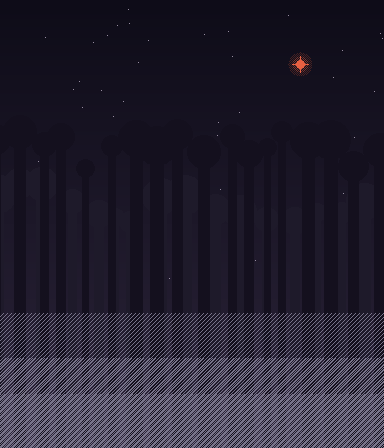
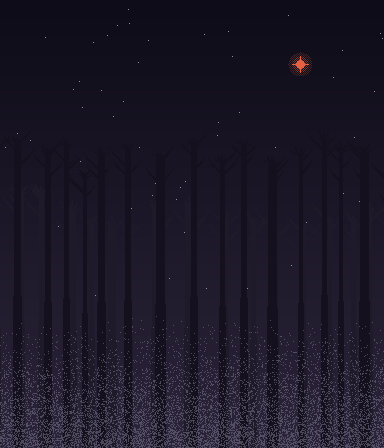
art: give the forest depth, and stop stamping the same tile down the floor
The mist was a diagonal hatch of literal (x + y) % n lines, which read as a
screen door laid over the lower third of the screen. It is now a fog that
thickens toward the ground, thresholded against deterministic hash noise
rather than an ordered matrix so no grid survives, and blended into what is
already there instead of overwriting it.

The background is two layers now: far trees at a quarter of the camera and
near trees at half, both drawn as bare trunks with branches instead of
rectangles with a ball on top. The scene draws both, which is the only Lua
this milestone touches.

The floor picks between three mud tops and two rock tops by a hash of the
tile coordinate, so the same stamp no longer repeats every sixteen pixels,
and rock ledges get their own left and right ends rather than showing a
sliced face. Map trees became bare canopies to match the background, and
the mud and rock interiors traded their blanket checker for sparse grit.

New tiles are appended after the existing ones so no gid shifts.

Verified: full suite green. The goldens failed first at 6% and 14% before
being refreshed, which is what should happen when the art really changes.

Changed region(s): [[0.0, 0.6875, 1.0, 1.0]]

diff --git a/tools/generate_aldebaran_assets.py b/tools/generate_aldebaran_assets.py
@@ -736,11 +736,16 @@ def t_mud_top():
 
 
 def t_mud_fill():
+    """진흙 속살. 면 전체를 체커로 덮지 않고 잡티만 성글게 흩는다."""
     f = Image.new("RGBA", (16, 16), MUD)
     d = ImageDraw.Draw(f)
-    dither(d, 0, 0, 16, 16, MUD_SHADE, phase=1)
-    d.point((4, 6), fill=MUD_SHADE)
-    d.point((11, 12), fill=MOSS_SHADE)
+    for y in range(16):
+        for x in range(16):
+            if hash_noise(x + 40, y + 90) > 0.86:
+                d.point((x, y), fill=MUD_SHADE)
+    d.line([3, 5, 6, 5], fill=MUD_SHADE)
+    d.line([10, 11, 12, 11], fill=MUD_SHADE)
+    d.point((13, 3), fill=MOSS_SHADE)
     return f
 
 
@@ -755,11 +760,16 @@ def t_rock_top():
 
 
 def t_rock_fill():
+    """바위 속살. 결을 몇 줄 넣고 잡티는 성글게."""
     f = Image.new("RGBA", (16, 16), ROCK)
     d = ImageDraw.Draw(f)
-    dither(d, 0, 0, 16, 16, ROCK_SHADE, phase=1)
-    d.line([3, 5, 7, 5], fill=ROCK_SHADE)
-    d.line([10, 11, 13, 11], fill=ROCK_SHADE)
+    for y in range(16):
+        for x in range(16):
+            if hash_noise(x + 7, y + 3) > 0.88:
+                d.point((x, y), fill=ROCK_SHADE)
+    d.line([2, 4, 7, 4], fill=ROCK_SHADE)
+    d.line([9, 10, 14, 10], fill=ROCK_SHADE)
+    d.line([4, 12, 8, 12], fill=ROCK_SHADE)
     return f
 
 
@@ -924,6 +934,59 @@ def t_pebble():
     return f
 
 
+def t_mud_top_var(kind):
+    """진흙 윗면 변형. 같은 도장을 되풀이하지 않도록 셋을 섞어 쓴다."""
+    f = t_mud_top()
+    d = ImageDraw.Draw(f)
+    if kind == 1:
+        for x in (2, 3, 9, 10, 11):                 # 풀 포기
+            d.line([x, 3, x - 1, 0], fill=MOSS_SHADE)
+        d.point((13, 5), fill=MUD_SHADE)
+    else:
+        d.ellipse([4, 4, 7, 6], fill=STONE_SHADE)   # 박힌 잔돌
+        d.point((5, 4), fill=STONE)
+        d.line([11, 2, 13, 2], fill=MOSS_SHADE)
+    return f
+
+
+def t_rock_top_var():
+    f = t_rock_top()
+    d = ImageDraw.Draw(f)
+    d.line([3, 4, 6, 4], fill=ROCK_SHADE)
+    d.line([9, 6, 12, 6], fill=ROCK_SHADE)
+    d.point((13, 3), fill=ROCK_LIGHT)
+    return f
+
+
+def t_rock_edge(side):
+    """바위 턱의 끝. 잘린 단면 대신 모서리가 깎여 보이게 한다."""
+    f = t_rock_top()
+    d = ImageDraw.Draw(f)
+    if side == "left":
+        d.polygon([(0, 0), (4, 0), (0, 6)], fill=(0, 0, 0, 0))
+        d.line([0, 6, 4, 0], fill=ROCK_LIGHT)
+        d.line([1, 8, 1, 15], fill=ROCK_SHADE)
+    else:
+        d.polygon([(11, 0), (15, 0), (15, 6)], fill=(0, 0, 0, 0))
+        d.line([11, 0, 15, 6], fill=ROCK_SHADE)
+        d.line([14, 8, 14, 15], fill=ROCK_SHADE)
+    return f
+
+
+def t_canopy_bare():
+    """마른 우듬지. 둥근 덩어리가 아니라 잔가지가 퍼진 모양 (원경의 나무와 맞춘다)."""
+    f = blank(16, 16)
+    d = ImageDraw.Draw(f)
+    d.polygon([(6, 15), (9, 15), (9, 8), (6, 8)], fill=TREE)
+    for ang, ln in ((-2.6, 7), (-2.0, 6), (-1.5, 8), (-1.0, 6), (-0.5, 7)):
+        import math as _m
+        d.line([7.5, 9, 7.5 + _m.cos(ang) * ln, 9 + _m.sin(ang) * ln],
+               fill=TREE, width=2)
+    shade_band(f, TREE_SHADE, 8, 0, 16, 16, axis="x", gamma=1.2)
+    outline(f)
+    return f
+
+
 def make_tileset():
     tiles = [
         # 줄 0 (gid 1~8): 땅과 다리
@@ -935,6 +998,10 @@ def make_tileset():
         # 줄 2 (gid 17~24): 석상과 잔해
         t_statue("tl"), t_statue("tr"), t_statue("bl"), t_statue("br"),
         t_skull(), t_pebble(), blank(16, 16), blank(16, 16),
+        # 줄 3 (gid 25~32): 나중에 더한 변형. 앞의 gid 는 그대로 둔다.
+        t_mud_top_var(1), t_mud_top_var(2), t_rock_top_var(),
+        t_rock_edge("left"), t_rock_edge("right"), t_canopy_bare(),
+        blank(16, 16), blank(16, 16),
     ]
     cols = 8
     rows = (len(tiles) + cols - 1) // cols
@@ -974,31 +1041,92 @@ def paint_forest(img, star_x, star_y, star_r, seed=7):
     d.ellipse([star_x - star_r, star_y - star_r, star_x + star_r, star_y + star_r], fill=STAR_RED)
     d.line([star_x - star_r * 2, star_y, star_x + star_r * 2, star_y], fill=STAR_RED)
     d.line([star_x, star_y - star_r * 2, star_x, star_y + star_r * 2], fill=STAR_RED)
-    # 나무 실루엣 두 겹
+    # 나무 실루엣 두 겹 (가지가 있는 실루엣. 기둥 사각형이 아니다)
     v = seed * 3 + 1
-    for layer, (color, top0, sway) in enumerate(
-            (((30, 26, 42), int(h * 0.42), 5), ((20, 16, 30), int(h * 0.30), 8))):
+    for color, top0 in (((30, 26, 42), int(h * 0.42)), ((20, 16, 30), int(h * 0.30))):
         x = -10
         while x < w + 10:
             v = (v * 1103515245 + 12345) % (2 ** 31)
-            tw = 6 + v % 8
+            tw = 5 + v % 6
             top = top0 + (v // 7) % 40
-            d.rectangle([x, top, x + tw, h], fill=color)
-            d.ellipse([x - tw, top - tw * 2, x + tw * 2, top + tw], fill=color)
-            x += tw + 8 + v % 14
-    # 검은 안개 (아래쪽 디더 띠 — 아래로 갈수록 짙어지되 단색이 되지는 않게)
-    for band, alpha_step in ((int(h * 0.70), 4), (int(h * 0.80), 3), (int(h * 0.88), 2)):
-        for y in range(band, h):
-            for x in range(0, w):
-                if (x + y) % alpha_step == 0:
-                    d.point((x, y), fill=MIST)
+            tree_silhouette(d, x, h, top, tw, color, v)
+            x += tw + 10 + v % 16
+    mist_gradient(img, MIST, int(h * 0.70), h, strength=0.5)
     return img
+
+
+def tree_silhouette(d, x, base_y, top_y, tw, color, seed):
+    """검은 늑대 인간의 나무 하나. 마른 기둥에서 가지가 몇 갈래 뻗는다."""
+    # 기둥은 위로 갈수록 가늘어진다
+    d.polygon([(x, base_y), (x + tw, base_y),
+               (x + tw - 1, top_y + 6), (x + 1, top_y + 6)], fill=color)
+    v = seed
+    for i in range(3):
+        v = (v * 1103515245 + 12345) % (2 ** 31)
+        y = top_y + 6 + (v % 30)
+        if y > base_y - 10:
+            continue
+        side = 1 if (v // 31) % 2 else -1
+        ln = 6 + (v // 7) % 10
+        d.line([x + tw / 2, y, x + tw / 2 + side * ln, y - ln], fill=color, width=2)
+        d.line([x + tw / 2 + side * ln, y - ln,
+                x + tw / 2 + side * (ln + 4), y - ln - 6], fill=color, width=1)
+    # 우듬지: 둥근 덩어리 대신 잔가지가 퍼진 모양
+    for i in range(5):
+        v = (v * 1103515245 + 12345) % (2 ** 31)
+        ang = -0.3 - (i / 4.0) * 2.4
+        ln = 5 + v % 7
+        import math as _m
+        d.line([x + tw / 2, top_y + 6,
+                x + tw / 2 + _m.cos(ang) * ln, top_y + 6 + _m.sin(ang) * ln],
+               fill=color, width=2)
+
+
+def hash_noise(x, y):
+    """(x, y) 자리의 결정적 잡음 (0.0 ~ 1.0). 안개처럼 무늬가 보이면 안 되는 곳에 쓴다."""
+    n = (x * 374761393 + y * 668265263) & 0xFFFFFFFF
+    n = (n ^ (n >> 13)) * 1274126177 & 0xFFFFFFFF
+    return ((n ^ (n >> 16)) & 0xFFFF) / 65535.0
+
+
+def mist_gradient(img, color, y0, y1, strength=0.85):
+    """검은 안개. 아래로 갈수록 짙어지되 격자가 보이지 않게 잡음으로 흩는다."""
+    px = img.load()
+    w = img.width
+    span = max(1, y1 - y0)
+    for y in range(max(0, y0), min(img.height, y1)):
+        t = ((y - y0) / span) ** 1.6 * strength
+        for x in range(w):
+            if t > hash_noise(x, y):
+                r, g, b = px[x, y][:3]
+                # 덮어쓰지 않고 섞는다. 그래야 한 점 한 점이 튀지 않는다.
+                mixed = (int(r + (color[0] - r) * 0.55),
+                         int(g + (color[1] - g) * 0.55),
+                         int(b + (color[2] - b) * 0.55))
+                px[x, y] = mixed if len(px[x, y]) == 3 else mixed + (255,)
 
 
 def make_bg():
     img = Image.new("RGBA", (384, 448))
     paint_forest(img, 300, 64, 4)
     save(img.convert("RGB"), OUT, "forest_bg.png")
+
+
+def make_bg_near():
+    """가까운 숲 (원경 위에 겹쳐 더 빨리 흐른다). 투명 배경이라 하늘이 비친다."""
+    w, h = 384, 448
+    img = blank(w, h)
+    d = ImageDraw.Draw(img)
+    v = 20260823
+    x = -14
+    while x < w + 14:
+        v = (v * 1103515245 + 12345) % (2 ** 31)
+        tw = 9 + v % 9
+        top = int(h * 0.16) + (v // 7) % 60
+        tree_silhouette(d, x, h, top, tw, (14, 11, 22), v)
+        x += tw + 34 + v % 40
+    mist_gradient(img, MIST, int(h * 0.78), h, strength=0.35)
+    save(img, OUT, "forest_near.png")
 
 
 def find_ttf():
@@ -1136,6 +1264,7 @@ def main():
     make_aura()
     make_tileset()
     make_bg()
+    make_bg_near()
     make_title()
     make_hud()
     make_sfx()

diff --git a/tools/generate_aldebaran_maps.py b/tools/generate_aldebaran_maps.py
@@ -33,6 +33,17 @@ TRUNK, TRUNK_THICK, CANOPY, VINE = 9, 10, 11, 12
 BAMBOO, SHROOM, WEED, SPIRE = 13, 14, 15, 16
 STATUE_TL, STATUE_TR, STATUE_BL, STATUE_BR = 17, 18, 19, 20
 SKULL, PEBBLE = 21, 22
+# 나중에 더한 변형 (gid 25~30). 같은 도장이 되풀이되지 않게 섞어 쓴다.
+MUD_TOP_B, MUD_TOP_C, ROCK_TOP_B = 25, 26, 27
+ROCK_EDGE_L, ROCK_EDGE_R, CANOPY_BARE = 28, 29, 30
+
+MUD_TOPS = (MUD_TOP, MUD_TOP_B, MUD_TOP_C)
+ROCK_TOPS = (ROCK_TOP, ROCK_TOP_B)
+
+
+def variant(seq, x, y):
+    """좌표로 고르는 결정적 변형. 난수가 아니라 같은 맵은 늘 같은 그림이다."""
+    return seq[(x * 7 + y * 13) % len(seq)]
 
 # 구간별 지면 높이 (윗면 타일의 y). 절벽 구간(48~63)은 None — 낭떠러지.
 # 바위 턱(rock=True)은 흙이 아니라 바위 타일로 그린다.
@@ -105,7 +116,17 @@ def main():
         if top is None:
             continue
         rock = is_rock(x)
-        g(x, top, ROCK_TOP if rock else MUD_TOP)
+        if rock:
+            left = ground_top(x - 1) != top or not is_rock(x - 1)
+            right = ground_top(x + 1) != top or not is_rock(x + 1)
+            if left:
+                g(x, top, ROCK_EDGE_L)
+            elif right:
+                g(x, top, ROCK_EDGE_R)
+            else:
+                g(x, top, variant(ROCK_TOPS, x, top))
+        else:
+            g(x, top, variant(MUD_TOPS, x, top))
         block(x, top)
         for y in range(top + 1, H):
             g(x, y, ROCK_FILL if rock else MUD_FILL)
@@ -126,7 +147,12 @@ def main():
     # 낮은 바위 턱 (늑대 숲)
     for x0, x1, top in LEDGES:
         for x in range(x0, x1 + 1):
-            g(x, top, ROCK_TOP)
+            if x == x0:
+                g(x, top, ROCK_EDGE_L)
+            elif x == x1:
+                g(x, top, ROCK_EDGE_R)
+            else:
+                g(x, top, variant(ROCK_TOPS, x, top))
             block(x, top)
             for y in range(top + 1, ground_top(x)):
                 g(x, y, ROCK_FILL)
@@ -138,7 +164,7 @@ def main():
         tall = 3 if kind == "thick" else 2
         for i in range(1, tall + 1):
             d(x, top - i, TRUNK_THICK if kind == "thick" else TRUNK)
-        d(x, top - tall - 1, CANOPY)
+        d(x, top - tall - 1, CANOPY_BARE)
 
     # 풀과 소품
     for x, gid in SHRUBS:
